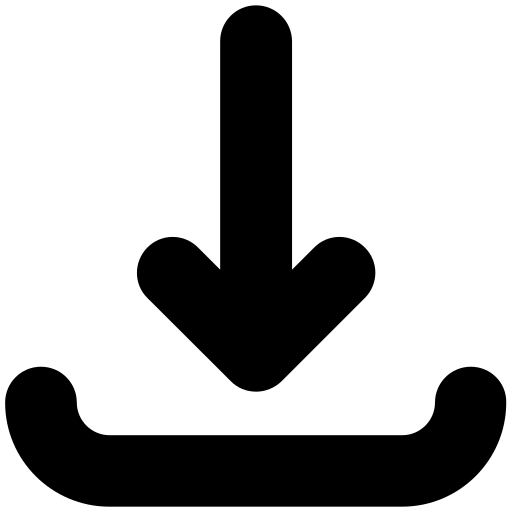
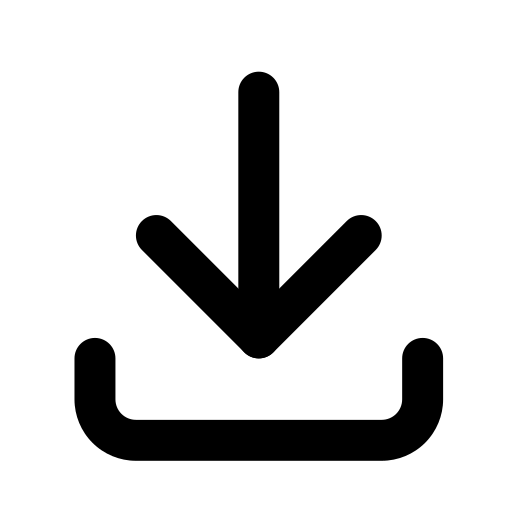
Updates

Changed region(s): [[0.0, 0.6562, 1.0, 1.0], [0.25, 0.0, 0.75, 0.7812]]

diff --git a/sw.js b/sw.js
@@ -1,1 +1,1 @@
-if(!self.define){let e,n={};const i=(i,s)=>(i=new URL(i+".js",s).href,n[i]||new Promise(n=>{if("document"in self){const e=document.createElement("script");e.src=i,e.onload=n,document.head.appendChild(e)}else e=i,importScripts(i),n()}).then(()=>{let e=n[i];if(!e)throw new Error(`Module ${i} didn’t register its module`);return e}));self.define=(s,o)=>{const r=e||("document"in self?document.currentScript.src:"")||location.href;if(n[r])return;let f={};const c=e=>i(e,r),l={module:{uri:r},exports:f,require:c};n[r]=Promise.all(s.map(e=>l[e]||c(e))).then(e=>(o(...e),f))}}define(["./workbox-dcde9eb3"],function(e){"use strict";self.skipWaiting(),e.clientsClaim(),e.precacheAndRoute([{url:"upload.png",revision:"9bcadd22e54280d906f188f9a5769eff"},{url:"pwa-512x512.png",revision:"198d19b3d1b11477bbddeff36ff9e43f"},{url:"pwa-192x192.png",revision:"52e93292ce46767887470d2cbfbf90b2"},{url:"plus.png",revision:"f57f6993febcf408a2af5c3b0cc7ea6d"},{url:"pack.png",revision:"9b8e39795f2fcf8a26e741f787489e6f"},{url:"lists.png",revision:"50ed08a53770b19fe76158bfc4995aac"},{url:"index.html",revision:"fcf83409189ba920699eac7d2bb2da12"},{url:"favicon.svg",revision:"a70a39abfc461f9916e762744ceb7048"},{url:"download.png",revision:"630ce887b4d3e621d503ee863d186a07"},{url:"complete.png",revision:"da188ccb78f1017e9645542bb5e52d6b"},{url:"apple-touch-icon.png",revision:"935725554a77f72da7f961226d020e68"},{url:"assets/workbox-window.prod.es5-BBnX5xw4.js",revision:null},{url:"assets/index-CvwzOSER.js",revision:null},{url:"assets/index-BFHVG3Yq.css",revision:null},{url:"apple-touch-icon.png",revision:"935725554a77f72da7f961226d020e68"},{url:"favicon.svg",revision:"a70a39abfc461f9916e762744ceb7048"},{url:"pwa-192x192.png",revision:"52e93292ce46767887470d2cbfbf90b2"},{url:"pwa-512x512.png",revision:"198d19b3d1b11477bbddeff36ff9e43f"},{url:"manifest.webmanifest",revision:"558f1eee3b4202f53691e70d4b407016"}],{}),e.cleanupOutdatedCaches(),e.registerRoute(new e.NavigationRoute(e.createHandlerBoundToURL("index.html"))),e.registerRoute(/^https:\/\/fonts\.googleapis\.com\/.*/i,new e.CacheFirst({cacheName:"google-fonts-cache",plugins:[new e.ExpirationPlugin({maxEntries:10,maxAgeSeconds:31536e3})]}),"GET")});
+if(!self.define){let e,n={};const i=(i,s)=>(i=new URL(i+".js",s).href,n[i]||new Promise(n=>{if("document"in self){const e=document.createElement("script");e.src=i,e.onload=n,document.head.appendChild(e)}else e=i,importScripts(i),n()}).then(()=>{let e=n[i];if(!e)throw new Error(`Module ${i} didn’t register its module`);return e}));self.define=(s,o)=>{const f=e||("document"in self?document.currentScript.src:"")||location.href;if(n[f])return;let r={};const c=e=>i(e,f),l={module:{uri:f},exports:r,require:c};n[f]=Promise.all(s.map(e=>l[e]||c(e))).then(e=>(o(...e),r))}}define(["./workbox-dcde9eb3"],function(e){"use strict";self.skipWaiting(),e.clientsClaim(),e.precacheAndRoute([{url:"upload.png",revision:"217f22261e93b4a24c4502811bb93aff"},{url:"pwa-512x512.png",revision:"198d19b3d1b11477bbddeff36ff9e43f"},{url:"pwa-192x192.png",revision:"52e93292ce46767887470d2cbfbf90b2"},{url:"plus.png",revision:"f57f6993febcf408a2af5c3b0cc7ea6d"},{url:"pack.png",revision:"9b8e39795f2fcf8a26e741f787489e6f"},{url:"lists.png",revision:"50ed08a53770b19fe76158bfc4995aac"},{url:"index.html",revision:"fcf83409189ba920699eac7d2bb2da12"},{url:"favicon.svg",revision:"a70a39abfc461f9916e762744ceb7048"},{url:"download.png",revision:"234d41dd41318f5ec3daff5be855bcc0"},{url:"complete.png",revision:"da188ccb78f1017e9645542bb5e52d6b"},{url:"apple-touch-icon.png",revision:"935725554a77f72da7f961226d020e68"},{url:"assets/workbox-window.prod.es5-BBnX5xw4.js",revision:null},{url:"assets/index-CvwzOSER.js",revision:null},{url:"assets/index-BFHVG3Yq.css",revision:null},{url:"apple-touch-icon.png",revision:"935725554a77f72da7f961226d020e68"},{url:"favicon.svg",revision:"a70a39abfc461f9916e762744ceb7048"},{url:"pwa-192x192.png",revision:"52e93292ce46767887470d2cbfbf90b2"},{url:"pwa-512x512.png",revision:"198d19b3d1b11477bbddeff36ff9e43f"},{url:"manifest.webmanifest",revision:"558f1eee3b4202f53691e70d4b407016"}],{}),e.cleanupOutdatedCaches(),e.registerRoute(new e.NavigationRoute(e.createHandlerBoundToURL("index.html"))),e.registerRoute(/^https:\/\/fonts\.googleapis\.com\/.*/i,new e.CacheFirst({cacheName:"google-fonts-cache",plugins:[new e.ExpirationPlugin({maxEntries:10,maxAgeSeconds:31536e3})]}),"GET")});
